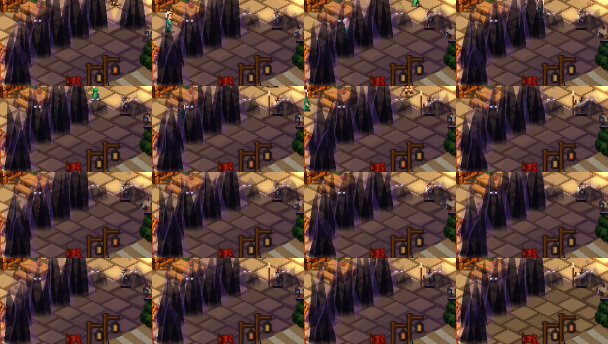
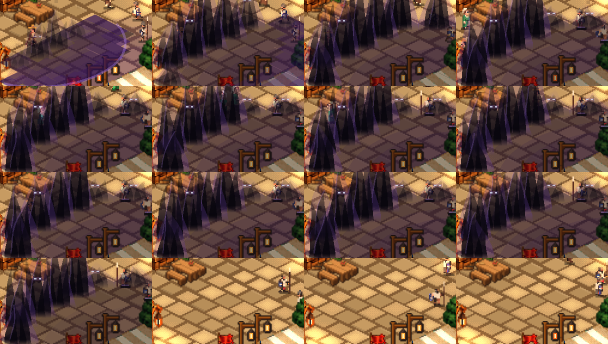
art: Veil clips that show the blanket, the night and the closing rim

diff --git a/docs/KAK_God_Veil_Rulings.md b/docs/KAK_God_Veil_Rulings.md
@@ -428,11 +428,11 @@ All recorded with `timeout 1200 $G --path . --fixed-fps 60 --audio-driver Dummy 
 
 - VRE1: doom: not re-recorded (its look did not change).
 - VRE2: blight: `--setup=dark --zoom=2.2` (the glyph shows over the sick in the dark).
-- VRE3: unseen: the light size (no --setup), `--zoom=0.5 --seconds=21.7 --fx-clock` (0.5 is the tool's zoom floor, 0.3 gives the same frames; the radius-5 circle is still wider than the clip's crop, so the sheet shows the lit town, the thrown blanket at the click, then the whole frame under violet, and the lit town again at the lift; the hem itself is outside the crop at any zoom).
+- VRE3: unseen: the light size (no --setup), `--whole --zoom=1.0 --fx-clock --times=0.3,0.6,0.9,2,4,6,8,10,12,14,16,18,19.5,20.5,21.0,21.5` (the whole blanket over the market as a violet ellipse: the throw, the hang, the lift in the last frames; the clip tool's `--whole` and `--times` flags).
 - VRE4: slumber: `--setup=dark --zoom=2.2 --seconds=4`.
 - VRE5: cloak: `--setup=dark --zoom=2.2 --seconds=6`.
-- VRE6: dreamless: `--zoom=2.2 --seconds=20` (lit size, the whole rest to the find). Its thread is too thin to read at 152 x 86.
-- VRE7: dread: `--setup=dusk --zoom=1.2 --cam=1,0 --seconds=20` (the wall stands round the dusk patch east of the cast; at the dark size the whole frame is dreaded and the wall is off screen).
+- VRE6: dreamless: `--zoom=2.2 --seconds=20` (lit size, the whole rest to the find). Its thread is too thin to read at 152 x 86, and `--whole` only shrinks it more; left as it is.
+- VRE7: dread: `--setup=dusk --zoom=1.2 --cam=1,0 --fx-clock --times=0.2,0.4,0.6,1.5,3,5,7,9,11,13,15,17,19,21,23,25.5` (three frames of the front crossing the dusk, the wall and its eyes, the wall sinking and the ground lit again at the end; `--whole` at 1.0 made the wall too small to read, so the centre crop stays). The wall stands round the dusk patch east of the cast; at the dark size the whole frame is dreaded and the wall is off screen.
 - VRE8: shadowplay: `--setup=dark --zoom=2.2 --seconds=8`.
-- VRE9: swallow: `--zoom=1.0 --seconds=22.8 --fx-clock` (_clip spaces frames evenly and has no start offset, so the growth takes 13 frames and the 1.4 s closing rim falls between two frames and is not caught: the sheet shows the funnel and tendrils, the hole filling the frame, then the town black and the last two frames the bare bowl).
-- VRE10: evernight: by day, `--zoom=0.7 --seconds=14 --fx-clock` (no --look=night: frame 1 the wall of night over the lit market, the rest the night with its torch islands and stars; the moon sits in the screen's corner, outside the clip's centre crop).
+- VRE9: swallow: `--whole --zoom=1.0 --fx-clock --times=2,4,6,8,10,12,14,16,18.2,18.8,19.2,19.6,20.0,20.4,21.0,22.0` (eight frames of the hole growing, six on the last 2 s before full size: the rim closing in and the town going under, then the black, then two of the bare bowl).
+- VRE10: evernight: by day, `--whole --zoom=0.8 --fx-clock --times=0.3,0.6,1.0,1.4,5,8,12,18,24,30,38,46,54,60,64,65.5` (four frames of the wall of night crossing the lit town, ten of the night with its torch islands, stars and the moon in the corner, and the last, at 65.5 s, the dawn rolling back).
